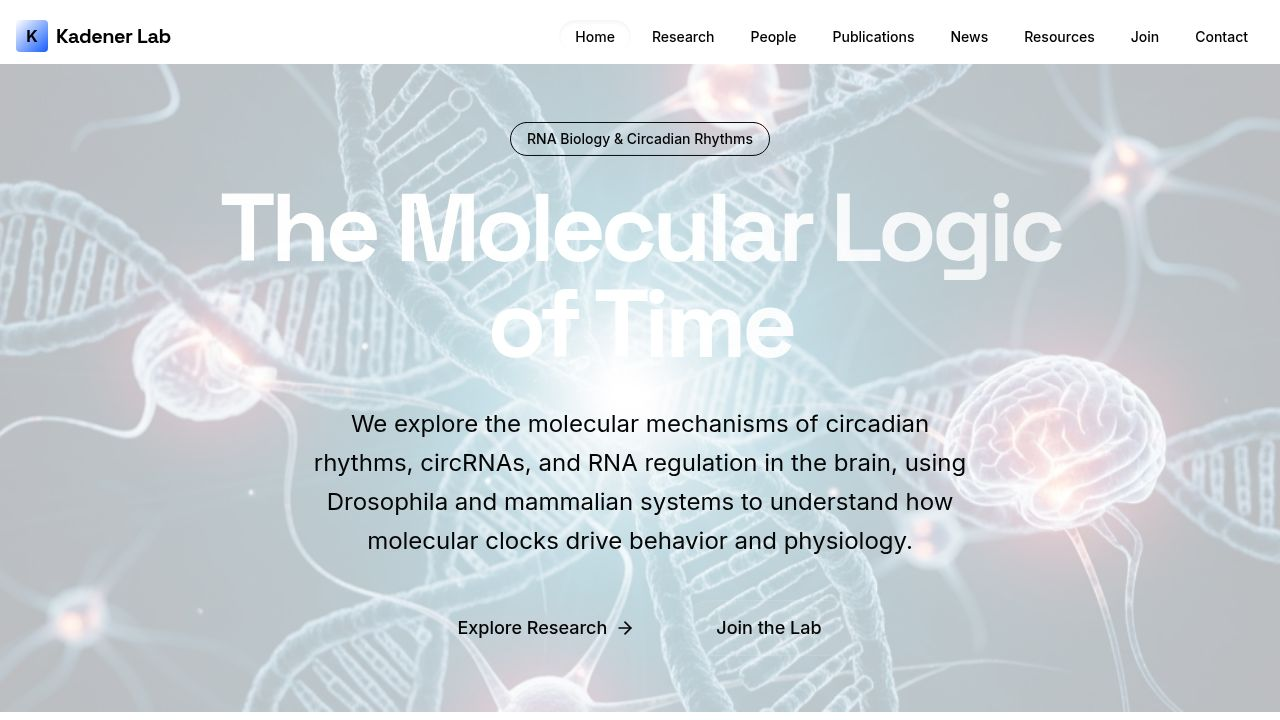
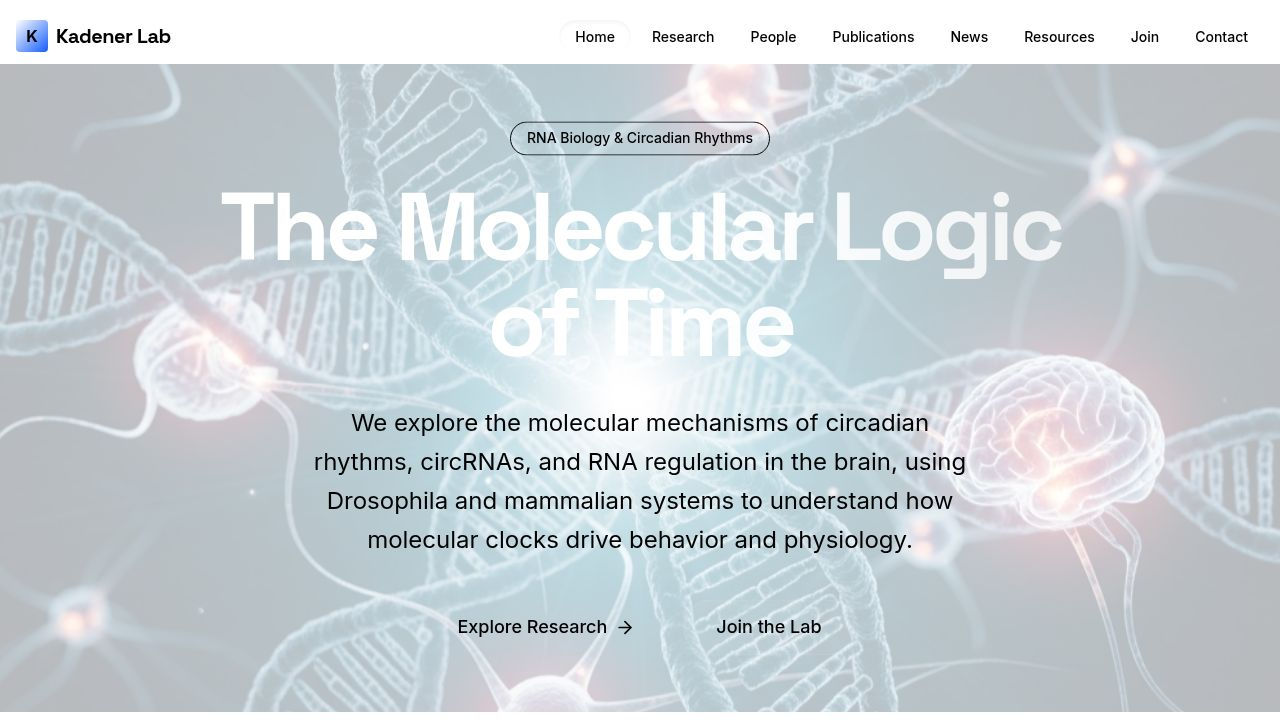
Add an AI chat widget for simulated user interaction
Implement a frontend-only AI chat widget with mock responses to simulate interaction and provide information from content data.

Replit-Commit-Author: Agent
Replit-Commit-Session-Id: c659798d-cdc1-497c-b22b-695ff8ee80b0
Replit-Commit-Checkpoint-Type: full_checkpoint
Replit-Commit-Event-Id: 9ce7860f-0401-4ad0-993a-4b7716896684
Replit-Commit-Screenshot-Url: https://storage.googleapis.com/screenshot-production-us-central1/0a6790c6-6e9d-4fe3-8ca5-9559bf0cc256/c659798d-cdc1-497c-b22b-695ff8ee80b0/s2JPqyD
Replit-Helium-Checkpoint-Created: true

diff --git a/client/src/components/ChatWidget.tsx b/client/src/components/ChatWidget.tsx
@@ -1,0 +1,206 @@
+import { useState, useRef, useEffect } from "react";
+import { MessageCircle, X, Send, Bot, User, Sparkles } from "lucide-react";
+import { Button } from "@/components/ui/custom-button";
+import { motion, AnimatePresence } from "framer-motion";
+import { cn } from "@/lib/utils";
+import { labInfo, researchThemes } from "@/data/content";
+
+interface Message {
+  id: string;
+  role: "user" | "assistant";
+  content: string;
+  timestamp: Date;
+}
+
+export function ChatWidget() {
+  const [isOpen, setIsOpen] = useState(false);
+  const [inputValue, setInputValue] = useState("");
+  const [isTyping, setIsTyping] = useState(false);
+  const [messages, setMessages] = useState<Message[]>([
+    {
+      id: "welcome",
+      role: "assistant",
+      content: `Hello! I'm the Kadener Lab AI Assistant (Demo). I can help you find information about our research, publications, or how to join the lab.`,
+      timestamp: new Date(),
+    },
+  ]);
+  const messagesEndRef = useRef<HTMLDivElement>(null);
+
+  const scrollToBottom = () => {
+    messagesEndRef.current?.scrollIntoView({ behavior: "smooth" });
+  };
+
+  useEffect(() => {
+    scrollToBottom();
+  }, [messages, isTyping]);
+
+  const handleSendMessage = async (e?: React.FormEvent) => {
+    e?.preventDefault();
+    if (!inputValue.trim()) return;
+
+    const userMessage: Message = {
+      id: Date.now().toString(),
+      role: "user",
+      content: inputValue,
+      timestamp: new Date(),
+    };
+
+    setMessages((prev) => [...prev, userMessage]);
+    setInputValue("");
+    setIsTyping(true);
+
+    // Simulate AI delay and response (Mock Mode)
+    setTimeout(() => {
+      const response = generateMockResponse(userMessage.content);
+      const aiMessage: Message = {
+        id: (Date.now() + 1).toString(),
+        role: "assistant",
+        content: response,
+        timestamp: new Date(),
+      };
+      setMessages((prev) => [...prev, aiMessage]);
+      setIsTyping(false);
+    }, 1500);
+  };
+
+  // Simple keyword matching for the mockup
+  const generateMockResponse = (input: string): string => {
+    const lower = input.toLowerCase();
+    
+    if (lower.includes("research") || lower.includes("work") || lower.includes("study")) {
+      return `We focus on ${researchThemes.map(t => t.title).join(", ")}. Would you like to know more about a specific topic?`;
+    }
+    if (lower.includes("join") || lower.includes("apply") || lower.includes("student") || lower.includes("postdoc")) {
+      return "We are always looking for motivated postdocs and graduate students! You can find more details on our 'Join' page, or contact Sebastian directly.";
+    }
+    if (lower.includes("address") || lower.includes("location") || lower.includes("where")) {
+      return `We are located at: ${labInfo.contact.address}.`;
+    }
+    if (lower.includes("email") || lower.includes("contact")) {
+      return `You can reach us at ${labInfo.contact.email}.`;
+    }
+    if (lower.includes("paper") || lower.includes("publication")) {
+      return "Our latest papers cover topics like circRNA translation and spatial transcriptomics. Check out the Publications page for the full list.";
+    }
+    
+    return "This is a demo of the AI interface. Since we are in frontend-only mode, I can't connect to the real ChatGPT yet, but I can respond to basic keywords about the lab!";
+  };
+
+  return (
+    <>
+      {/* Floating Button */}
+      <motion.button
+        initial={{ scale: 0, opacity: 0 }}
+        animate={{ scale: 1, opacity: 1 }}
+        transition={{ delay: 1 }}
+        onClick={() => setIsOpen(true)}
+        className={cn(
+          "fixed bottom-6 right-6 z-50 w-14 h-14 rounded-full bg-primary text-primary-foreground shadow-2xl shadow-primary/30 flex items-center justify-center hover:scale-110 transition-transform",
+          isOpen && "hidden"
+        )}
+      >
+        <MessageCircle className="w-7 h-7" />
+      </motion.button>
+
+      {/* Chat Window */}
+      <AnimatePresence>
+        {isOpen && (
+          <motion.div
+            initial={{ opacity: 0, y: 50, scale: 0.9 }}
+            animate={{ opacity: 1, y: 0, scale: 1 }}
+            exit={{ opacity: 0, y: 50, scale: 0.9 }}
+            className="fixed bottom-6 right-6 z-50 w-[90vw] md:w-[400px] h-[600px] max-h-[80vh] flex flex-col bg-card/95 backdrop-blur-xl border border-white/10 rounded-2xl shadow-2xl overflow-hidden"
+          >
+            {/* Header */}
+            <div className="p-4 border-b border-white/10 bg-primary/10 flex items-center justify-between">
+              <div className="flex items-center gap-2">
+                <div className="w-8 h-8 rounded-full bg-primary flex items-center justify-center text-primary-foreground">
+                  <Bot className="w-5 h-5" />
+                </div>
+                <div>
+                  <h3 className="font-bold text-sm">Kadener Lab AI</h3>
+                  <span className="text-[10px] uppercase tracking-wider text-primary flex items-center gap-1">
+                    <span className="w-1.5 h-1.5 rounded-full bg-green-500 animate-pulse" />
+                    Online (Demo)
+                  </span>
+                </div>
+              </div>
+              <button 
+                onClick={() => setIsOpen(false)}
+                className="p-2 hover:bg-white/10 rounded-full transition-colors"
+              >
+                <X className="w-5 h-5" />
+              </button>
+            </div>
+
+            {/* Messages Area */}
+            <div className="flex-grow overflow-y-auto p-4 space-y-4">
+              {messages.map((msg) => (
+                <div
+                  key={msg.id}
+                  className={cn(
+                    "flex gap-3 max-w-[85%]",
+                    msg.role === "user" ? "ml-auto flex-row-reverse" : "mr-auto"
+                  )}
+                >
+                  <div className={cn(
+                    "w-8 h-8 rounded-full flex items-center justify-center shrink-0",
+                    msg.role === "user" ? "bg-secondary text-secondary-foreground" : "bg-primary/20 text-primary"
+                  )}>
+                    {msg.role === "user" ? <User className="w-4 h-4" /> : <Sparkles className="w-4 h-4" />}
+                  </div>
+                  <div className={cn(
+                    "p-3 rounded-2xl text-sm leading-relaxed",
+                    msg.role === "user" 
+                      ? "bg-primary text-primary-foreground rounded-tr-none" 
+                      : "bg-white/5 border border-white/5 rounded-tl-none"
+                  )}>
+                    {msg.content}
+                  </div>
+                </div>
+              ))}
+              
+              {isTyping && (
+                <div className="flex gap-3 mr-auto">
+                  <div className="w-8 h-8 rounded-full bg-primary/20 text-primary flex items-center justify-center shrink-0">
+                    <Sparkles className="w-4 h-4" />
+                  </div>
+                  <div className="bg-white/5 border border-white/5 rounded-2xl rounded-tl-none p-4 flex items-center gap-1">
+                    <span className="w-2 h-2 bg-primary/50 rounded-full animate-bounce" style={{ animationDelay: "0ms" }} />
+                    <span className="w-2 h-2 bg-primary/50 rounded-full animate-bounce" style={{ animationDelay: "150ms" }} />
+                    <span className="w-2 h-2 bg-primary/50 rounded-full animate-bounce" style={{ animationDelay: "300ms" }} />
+                  </div>
+                </div>
+              )}
+              <div ref={messagesEndRef} />
+            </div>
+
+            {/* Input Area */}
+            <form onSubmit={handleSendMessage} className="p-4 border-t border-white/10 bg-black/20">
+              <div className="relative flex items-center">
+                <input
+                  type="text"
+                  value={inputValue}
+                  onChange={(e) => setInputValue(e.target.value)}
+                  placeholder="Ask about research, people, papers..."
+                  className="w-full bg-background/50 border border-white/10 rounded-full pl-4 pr-12 py-3 text-sm focus:outline-none focus:border-primary/50 focus:ring-1 focus:ring-primary/50 transition-all"
+                />
+                <Button 
+                  type="submit" 
+                  size="icon"
+                  className="absolute right-1 top-1 w-10 h-10 rounded-full"
+                  disabled={!inputValue.trim() || isTyping}
+                >
+                  <Send className="w-4 h-4" />
+                </Button>
+              </div>
+              <div className="text-[10px] text-center text-muted-foreground mt-2 opacity-50">
+                AI can make mistakes. Please verify important info.
+              </div>
+            </form>
+          </motion.div>
+        )}
+      </AnimatePresence>
+    </>
+  );
+}

diff --git a/client/src/components/Layout.tsx b/client/src/components/Layout.tsx
@@ -4,6 +4,7 @@ import { Menu, X } from "lucide-react";
 import { cn } from "@/lib/utils";
 import { motion, AnimatePresence } from "framer-motion";
 import { labInfo } from "@/data/content";
+import { ChatWidget } from "./ChatWidget";
 
 export default function Layout({ children }: { children: React.ReactNode }) {
   const [isOpen, setIsOpen] = useState(false);
@@ -107,6 +108,8 @@ export default function Layout({ children }: { children: React.ReactNode }) {
       <main className="flex-grow pt-16">
         {children}
       </main>
+
+      <ChatWidget />
 
       <footer className="border-t border-white/5 bg-black/20 py-12 mt-20">
         <div className="container mx-auto px-4 grid md:grid-cols-4 gap-8">
